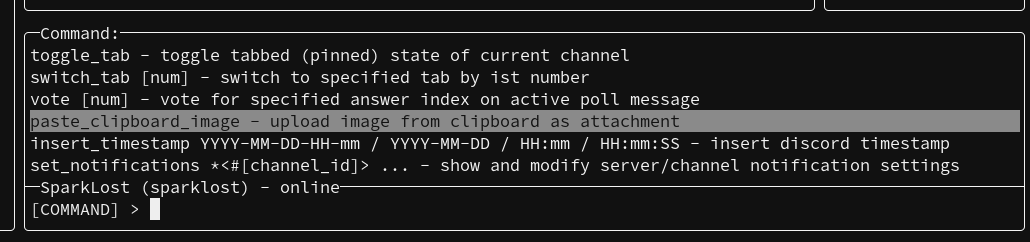
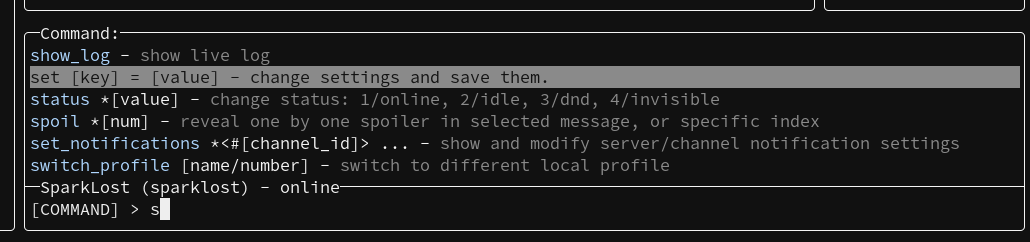
Add colors and formatting in assists Fix Ctrl+O binding Fix Alt+up moving assist Update screenshots

Changed region(s): [[0.0311, 0.2025, 0.9942, 0.7231], [0.1243, 0.8099, 0.1864, 0.9256]]

diff --git a/endcord/app.py b/endcord/app.py
@@ -81,6 +81,8 @@ ASSISTED_COMMANDS = ("set ", "string_select ", "set_notifications ", "game_detec
 STATS_COMMAND_TEXT = ("Run time", "Gateway events/h", "Gateway messages/h", "Gateway ping time", "Message buffer size", "Total API requests", "API response time", "Cache sizes", "  Cached members", "  Deleted messages", "  Summaries", "  Image cache")
 match_emoji = re.compile(r"<:(.*):(\d*)>")
 match_youtube = re.compile(r"(?:https?:\/\/)?(?:www\.)?(?:youtube\.com\/(?:watch\?v=|embed\/|shorts\/)|youtu\.be\/)[a-zA-Z0-9_-]{11}")
+match_last_parentheses = re.compile(r"\([^()]*\)(?!.*\([^()]*\))")
+match_last_brackets = re.compile(r"\[[^\[\]]*\](?!.*\[[^\[\]]*\])")
 
 
 class Endcord:
@@ -1676,7 +1678,7 @@ class Endcord:
                     embeds = self.get_msg_embeds(msg_index)
                     urls = self.get_msg_urls_chat(msg_index)
                 selected_urls = []
-                for num in self.get_stuff_from_selected_line(chat_sel, 0):   # get url
+                for num in self.get_stuff_from_selected_line(chat_sel, 0):
                     if urls[num] in embeds:
                         selected_urls.append(urls[num])
                 if len(selected_urls) == 1:
@@ -1693,7 +1695,7 @@ class Endcord:
                     self.restore_input_text = ("SELECT", "prompt")
                     self.update_status_line()
 
-            # open link in browser
+            # open in browser
             elif action == 10:
                 self.restore_input_text = (input_text, "standard")
                 msg_index = self.lines_to_msg(chat_sel)
@@ -1701,11 +1703,13 @@ class Endcord:
                     continue
                 urls = None
                 embeds = self.get_stuff_from_selected_line(chat_sel, 5)
+                selected_urls = []
                 if not embeds:
-                    selected_urls = []
                     urls = self.get_msg_urls_chat(msg_index)
-                    for num in self.get_stuff_from_selected_line(chat_sel, 0):   # get url
+                    for num in self.get_stuff_from_selected_line(chat_sel, 0):
                         selected_urls.append(urls[num])
+                else:
+                    selected_urls = embeds
                 if len(selected_urls) == 1:
                     selected_url = self.refresh_attachment_url(selected_urls[0])
                     webbrowser.open(selected_url, new=0, autoraise=True)
@@ -1735,7 +1739,7 @@ class Endcord:
                     urls = self.get_msg_urls_chat(msg_index)
                 selected_urls = []
                 if urls:
-                    for num in self.get_stuff_from_selected_line(chat_sel, 0):   # get url
+                    for num in self.get_stuff_from_selected_line(chat_sel, 0):
                         if urls[num] in embeds:
                             selected_urls.append(urls[num])
                 else:
@@ -5569,6 +5573,10 @@ class Endcord:
         """Generate and show various assists when typing"""
         self.assist_type = assist_type
         self.assist_found = []
+        extra_format = []
+        color_low = self.colors[8]
+        color_standout = self.colors[9]
+        max_w = self.tui.get_dimensions()[2][1]
 
         if assist_type == 1:   # channels
             if not self.command:   # current guild channels
@@ -5612,6 +5620,13 @@ class Endcord:
                 limit=self.assist_limit,
                 score_cutoff=self.assist_score_cutoff,
             )
+            for line in self.assist_found:
+                match = re.search(match_last_parentheses, line[0])
+                start, end = match.span()
+                if match:
+                    extra_format.append([(color_low, None, start, end + 4)])
+                else:
+                    extra_format.append(None)
 
         elif assist_type == 4:   # sticker
             if self.config["default_stickers"]:
@@ -5627,6 +5642,12 @@ class Endcord:
                 limit=self.assist_limit,
                 score_cutoff=self.assist_score_cutoff,
             )
+            for line in self.assist_found:
+                match = re.search(match_last_parentheses, line[0])
+                if match:
+                    extra_format.append([(color_low, None, *match.span())])
+                else:
+                    extra_format.append(None)
 
         elif assist_type == 5:   # client command
             if assist_word.lower().startswith("set "):
@@ -5640,6 +5661,8 @@ class Endcord:
                 else:
                     for key, value in self.config.items():
                         self.assist_found.append((f"{key} = {value}", f"set {key} = {value}"))
+                for line in self.assist_found:
+                    extra_format.append([(color_standout, None, 0, line[0].find(" = "))])
 
             elif assist_word.lower().startswith("string_select "):
                 chat_sel, _ = self.tui.get_chat_selected()
@@ -5653,6 +5676,8 @@ class Endcord:
                             limit=self.assist_limit,
                             score_cutoff=self.assist_score_cutoff,
                         )
+                        for line in self.assist_found:
+                            extra_format.append([(color_standout, None, line[0].find(" - ") + 3, max_w)])
 
             elif assist_word.lower().startswith("set_notifications "):
                 query_words = assist_word.split(" ")
@@ -5680,6 +5705,15 @@ class Endcord:
                         assist_word,
                         score_cutoff=self.assist_score_cutoff,
                     )
+                    for line in self.assist_found:
+                        if line[0].startswith("* "):
+                            extra_format.append([(color_standout, 1, 0, 1)])
+                        elif line[0].endswith("True"):
+                            extra_format.append([(color_standout, None, len(line[0]) - 4, max_w)])
+                        elif line[0].endswith("False"):
+                            extra_format.append([(color_standout, None, len(line[0]) - 5, max_w)])
+                        else:
+                            extra_format.append(None)
 
             elif assist_word.lower().startswith("game_detection_blacklist ") and self.enable_game_detection and self.game_detection.run:
                 self.assist_found = search.search_games(
@@ -5689,6 +5723,11 @@ class Endcord:
                     limit=self.assist_limit,
                     score_cutoff=self.assist_score_cutoff,
                 )
+                for line in self.assist_found:
+                    if line[0].endswith(" (blacklisted)"):
+                        extra_format.append([(color_low, None, len(line) - 14, max_w)])
+                    else:
+                        extra_format.append(None)
 
             elif assist_word.lower().startswith("switch_tab "):
                 self.assist_found = search.search_tabs(
@@ -5697,6 +5736,12 @@ class Endcord:
                     limit=self.assist_limit,
                     score_cutoff=self.assist_score_cutoff,
                 )
+                for line in self.assist_found:
+                    match = re.search(match_last_parentheses, line[0])
+                    if match:
+                        extra_format.append([(color_standout, 1, 0, 1), (color_low, None, *match.span())])
+                    else:
+                        extra_format.append(None)
 
             elif assist_word.lower().startswith("goto "):
                 self.assist_found = search.search_channels_all(
@@ -5726,10 +5771,16 @@ class Endcord:
             elif assist_word.lower().startswith("voice_set_input_device "):
                 self.assist_found = search.search_mics(
                     peripherals.get_audio_input_devices(),
+                    self.state["audio_input_device"],
                     assist_word[23:],
                     limit=self.assist_limit,
                     score_cutoff=self.assist_score_cutoff,
                 )
+                for line in self.assist_found:
+                    if line[0].startswith("* "):
+                        extra_format.append([(color_standout, 1, 0, 1)])
+                    else:
+                        extra_format.append(None)
 
             elif assist_word.lower().startswith("switch_profile "):
                 self.assist_found = search.search_profiles(
@@ -5738,6 +5789,12 @@ class Endcord:
                     limit=self.assist_limit,
                     score_cutoff=self.assist_score_cutoff,
                 )
+                for line in self.assist_found:
+                    match = re.search(match_last_parentheses, line[0])
+                    if match:
+                        extra_format.append([(color_low, None, *match.span())])
+                    else:
+                        extra_format.append(None)
 
             elif assist_word.lower().startswith("gif "):
                 self.assist_found = search.search_gif(
@@ -5746,6 +5803,13 @@ class Endcord:
                     limit=self.assist_limit,
                     score_cutoff=self.assist_score_cutoff,
                 )
+                for line in self.assist_found:
+                    if line[0].startswith("Search: "):
+                        extra_format.append([(color_standout, None, 0, 7)])
+                    elif ": " in line[0]:
+                        extra_format.append([(color_low, None, 0, len(line[0].split(": ")[0]) + 1)])
+                    else:
+                        extra_format.append(None)
 
             elif assist_word:
                 self.assist_found = search.search_client_commands(
@@ -5754,8 +5818,12 @@ class Endcord:
                     limit=self.assist_limit,
                     score_cutoff=self.assist_score_cutoff,
                 )
+                for line in self.assist_found:
+                    extra_format.append([(color_standout, None, 0, len(line[0].split(" ", 1)[0])), (color_low, None, line[0].find(" - ") + 3, max_w)])
             else:
                 self.assist_found = COMMAND_ASSISTS
+                for line in self.assist_found:
+                    extra_format.append([(color_standout, None, 0, len(line[0].split(" ", 1)[0])), (color_low, None, line[0].find(" - ") + 3, max_w)])
 
         elif assist_type == 6:   # app commands
             assist_words = assist_word[1:].split(" ")
@@ -5808,15 +5876,21 @@ class Endcord:
                 fav=not(self.search_results),
                 cmd=False,
             )
+            for line in self.assist_found:
+                if line[0].startswith("Search: "):
+                    extra_format.append([(color_standout, None, 0, 7)])
+                elif ": " in line[0]:
+                    extra_format.append([(color_low, None, 0, len(line[0].split(": ")[0]) + 1)])
+                else:
+                    extra_format.append(None)
 
-        max_w = self.tui.get_dimensions()[2][1]
         extra_title, extra_body = formatter.generate_extra_window_assist(self.assist_found, assist_type, max_w, self.placeholder_emoji)
         self.extra_window_open = True
         if (self.search or self.search_gif or self.command) and not (self.assist_word or self.assist_word == " "):
             self.extra_bkp = (self.tui.extra_window_title, self.tui.extra_window_body, self.tui.extra_window_format)
         self.assist_word = assist_word
         self.execute_extensions_methods("on_assist", self.assist_found, assist_type, cache=True)
-        self.tui.draw_extra_window(extra_title, extra_body, select=True)
+        self.tui.draw_extra_window(extra_title, extra_body, extra_format, select=True)
 
 
     def stop_assist(self, close=True):

diff --git a/endcord/search.py b/endcord/search.py
@@ -559,10 +559,12 @@ def search_tabs(tabs, query, limit=50, score_cutoff=15):
     return sorted(results, key=lambda x: x[2], reverse=True)
 
 
-def search_mics(devices, query, limit=50, score_cutoff=15):
+def search_mics(devices, current_device, query, limit=50, score_cutoff=15):
     """Search for microphones"""
     results = []
     worst_score = score_cutoff
+    if current_device is None:
+        current_device = "Auto"
     results.append(("Auto", "voice_set_input_device " + "Auto", score_cutoff + fuzzy_match_score(query, "Auto") + 0.1))
 
     for device in devices:
@@ -575,6 +577,10 @@ def search_mics(devices, query, limit=50, score_cutoff=15):
             worst_score = results[0][2]
 
     results.append(("OFF", "voice_set_input_device " + "OFF", score_cutoff + fuzzy_match_score(query, "OFF") + 0.1))
+    for num, result in enumerate(results):
+        if current_device == result[0]:
+            results[num] = (f"* {result[0]}", *result[1:])
+            break
     return sorted(results, key=lambda x: x[2], reverse=True)
 
 

diff --git a/build.py b/build.py
@@ -640,8 +640,9 @@ def build_with_nuitka(onedir, clang, mingw, nosoundcard, print_cmd=False, experi
         pkgname = PKGNAME
         emoji_path = "endcord/emoji.json"
     full = pkgname == PKGNAME
+    static_python = False   # might be useful with custom python build
 
-    mode = "--standalone" if onedir else "--onefile"
+    mode = "standalone" if onedir else "onefile"
     compiler = ""
     if clang:
         compiler = "--clang"
@@ -717,7 +718,7 @@ def build_with_nuitka(onedir, clang, mingw, nosoundcard, print_cmd=False, experi
     # prepare command and run it
     cmd = [
         "uv", "run", "python", "-m", "nuitka",
-        mode,
+        f"--mode={mode}",
         compiler,
         *python_flags,
         *hidden_imports,
@@ -725,6 +726,7 @@ def build_with_nuitka(onedir, clang, mingw, nosoundcard, print_cmd=False, experi
         *package_data,
         *add_data,
         *options,
+        "--static-libpython=yes" if static_python else "",
         "--prefer-source-code",
         "--remove-output",
         "--output-dir=dist",

diff --git a/endcord/tui.py b/endcord/tui.py
@@ -2296,8 +2296,8 @@ class TUI():
                     self.chat_index += 1   # move history down
                 self.set_selected(self.chat_selected + 1, scroll=False)   # move selection up
 
-        if key in self.KEYBINDINGS_CHAT_DOWN or (self.swap_assist and self.win_extra_window and key in self.keybindings["extra_down"] and not alt and not command):
-            if command and key not in self.keybindings["extra_up"]:
+        elif key in self.KEYBINDINGS_CHAT_DOWN or (self.swap_assist and self.win_extra_window and key in self.keybindings["extra_down"] and not alt and not command):
+            if command and key not in self.keybindings["extra_down"]:
                 return 47
             if self.swap_assist and self.win_extra_window and not mouse and key in self.KEYBINDINGS_CHAT_DOWN:
                 self.common_keybindings(self.keybindings["extra_down"][0], alt=True)

diff --git a/README.md b/README.md
@@ -517,6 +517,9 @@ Follow [fbterm setup instructions](https://wiki.archlinux.org/title/Fbterm#Insta
 Some characters may fail to render so set `emoji_as_text = True` in config and `compact = True` in theme. Some theme characters should also be tweaked.  
 Note: keybinding `Ctrl+Up/Down/Left/Right` does not work in tty, either rebind them or add custom keymap, or in `/etc/vconsole.conf`.  
 
+### Keybindings dont work in tmux
+Add this to tmux.conf: `set -g default-terminal xterm-256color`
+
 ### RAM usage
 RAM usage greatly depends on multiple factors:
 - Full binary version uses few MB more than lite.